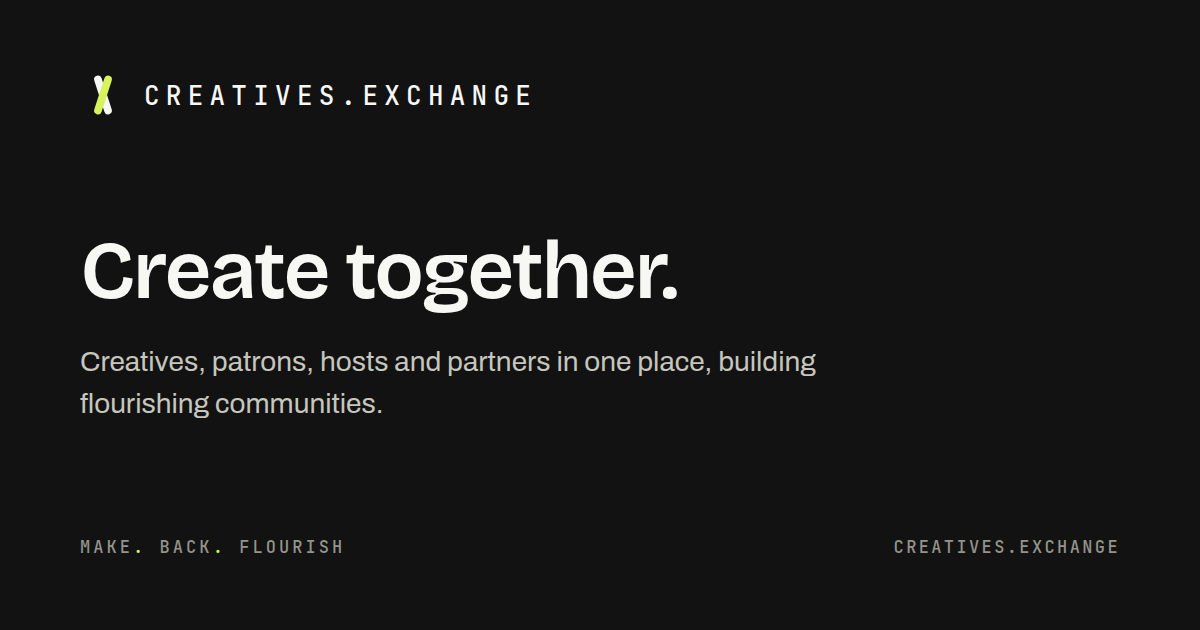
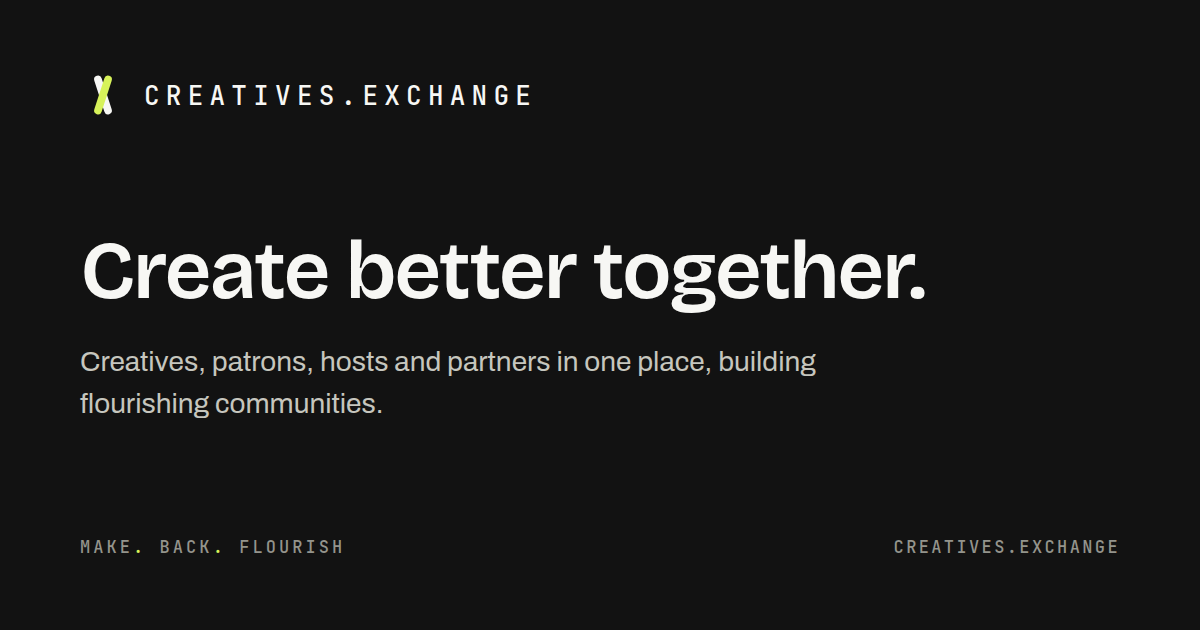
Hero reads Create better together; eyebrows up to 18px; join page drops the tagline
The headline and share card say "Create better together." Citron eyebrow
labels on the home page go to text-base / text-lg so they no longer sit
below the body copy beside them. The join page stops printing the
community tagline under its subhead.

Claude-Session: https://claude.ai/code/session_01KR6VSpbaQtHyacYrmqt1xR

Changed region(s): [[0.2775, 0.3619, 0.7708, 0.5127]]

diff --git a/app/app/routes/home.tsx b/app/app/routes/home.tsx
@@ -10,7 +10,7 @@ import { Reveal } from "../hooks/useReveal";
 
 export function meta({}: Route.MetaArgs) {
   return [
-    { title: "creatives.exchange — Create together, building flourishing communities" },
+    { title: "creatives.exchange — Create better together, building flourishing communities" },
     {
       name: "description",
       content:
@@ -18,7 +18,7 @@ export function meta({}: Route.MetaArgs) {
     },
     {
       property: "og:title",
-      content: "creatives.exchange — Create together, building flourishing communities",
+      content: "creatives.exchange — Create better together, building flourishing communities",
     },
     {
       property: "og:description",
@@ -39,7 +39,7 @@ export function meta({}: Route.MetaArgs) {
     { name: "twitter:card", content: "summary_large_image" },
     {
       name: "twitter:title",
-      content: "creatives.exchange — Create together, building flourishing communities",
+      content: "creatives.exchange — Create better together, building flourishing communities",
     },
     {
       name: "twitter:description",
@@ -115,7 +115,7 @@ export default function Home() {
                 textWrap: "balance",
               }}
             >
-              Create{" "}
+              Create better{" "}
               <span className="text-[var(--garden-citron)]">together.</span>
             </h1>
             <p className="text-lg md:text-[22px] leading-relaxed md:leading-[1.5] text-[var(--garden-body)] max-w-[560px]" style={{ textWrap: "pretty" }}>
@@ -238,7 +238,7 @@ export default function Home() {
       <section className="py-16 md:py-[88px] bg-[var(--garden-ink-raised)]">
         <Reveal className="max-w-[1280px] mx-auto px-6 md:px-14 grid md:grid-cols-12 gap-8 md:gap-16">
           <div className="md:col-span-5">
-            <p className="text-[var(--garden-citron)] text-sm md:text-base font-semibold tracking-wide uppercase mb-5">
+            <p className="text-[var(--garden-citron)] text-base md:text-lg font-semibold tracking-wide uppercase mb-5">
               The Garden
             </p>
             <h2
@@ -300,7 +300,7 @@ export default function Home() {
               />
             </Reveal>
             <Reveal delay={150} className="md:col-span-7 max-w-[560px]">
-              <p className="text-[var(--garden-citron)] text-sm md:text-base font-semibold tracking-wide uppercase mb-5">
+              <p className="text-[var(--garden-citron)] text-base md:text-lg font-semibold tracking-wide uppercase mb-5">
                 For creatives
               </p>
               <h3
@@ -340,7 +340,7 @@ export default function Home() {
           {/* Patrons — image right (7fr / 5fr) */}
           <div className="grid md:grid-cols-12 gap-8 md:gap-16 items-center">
             <Reveal delay={150} className="md:col-span-7 max-w-[560px] md:justify-self-end order-2 md:order-none">
-              <p className="text-[var(--garden-citron)] text-sm md:text-base font-semibold tracking-wide uppercase mb-5">
+              <p className="text-[var(--garden-citron)] text-base md:text-lg font-semibold tracking-wide uppercase mb-5">
                 For patrons
               </p>
               <h3
@@ -396,7 +396,7 @@ export default function Home() {
               />
             </Reveal>
             <Reveal delay={150} className="md:col-span-7 max-w-[560px]">
-              <p className="text-[var(--garden-citron)] text-sm md:text-base font-semibold tracking-wide uppercase mb-5">
+              <p className="text-[var(--garden-citron)] text-base md:text-lg font-semibold tracking-wide uppercase mb-5">
                 For hosts
               </p>
               <h3
@@ -436,7 +436,7 @@ export default function Home() {
           {/* Community Partners — image right (7fr / 5fr) */}
           <div className="grid md:grid-cols-12 gap-8 md:gap-16 items-center">
             <Reveal delay={150} className="md:col-span-7 max-w-[560px] md:justify-self-end order-2 md:order-none">
-              <p className="text-[var(--garden-citron)] text-sm md:text-base font-semibold tracking-wide uppercase mb-5">
+              <p className="text-[var(--garden-citron)] text-base md:text-lg font-semibold tracking-wide uppercase mb-5">
                 For community partners
               </p>
               <h3

diff --git a/app/app/routes/join.tsx b/app/app/routes/join.tsx
@@ -4,8 +4,8 @@
 // on /signup (its InviteEntry), the one step that actually needs it. A
 // ?invite=slug on this URL rides along to /signup/<slug> so the code isn't
 // asked for twice. ?community=<slug> makes the page read as that
-// community's door (its name in the headline, its tagline under the
-// subhead); without it, the copy is the platform's.
+// community's door (its name in the headline); without it, the copy is
+// the platform's.
 //
 // Each paid card is a real Stripe Checkout button — garden/stripe.ts's
 // createMembershipCheckout, the same action settings.tsx's billing portal
@@ -232,7 +232,6 @@ export default function JoinPage() {
     communitySlug ? { slug: communitySlug } : "skip",
   );
   const communityName = community?.name ?? null;
-  const communityTagline = community?.tagline ?? null;
 
   return (
     <GardenPage wide>
@@ -246,11 +245,6 @@ export default function JoinPage() {
           at member tables. Half of it goes into the Grant Fund, so your
           membership funds another creative's project too.
         </p>
-        {communityTagline && (
-          <p style={{ marginTop: 10, fontSize: 15, lineHeight: 1.6, color: "var(--g-dim)" }}>
-            {communityTagline}
-          </p>
-        )}
       </div>
 
       {membership && (

diff --git a/app/scripts/og-image.html b/app/scripts/og-image.html
@@ -44,7 +44,7 @@ h1{font-family:'Bricolage Grotesque',sans-serif;font-weight:600;
     <span class="wm">creatives.exchange</span>
   </div>
   <div>
-    <h1>Create together.</h1>
+    <h1>Create better together.</h1>
     <p class="sub">Creatives, patrons, hosts and partners in one place, building flourishing communities.</p>
   </div>
   <div class="foot">
